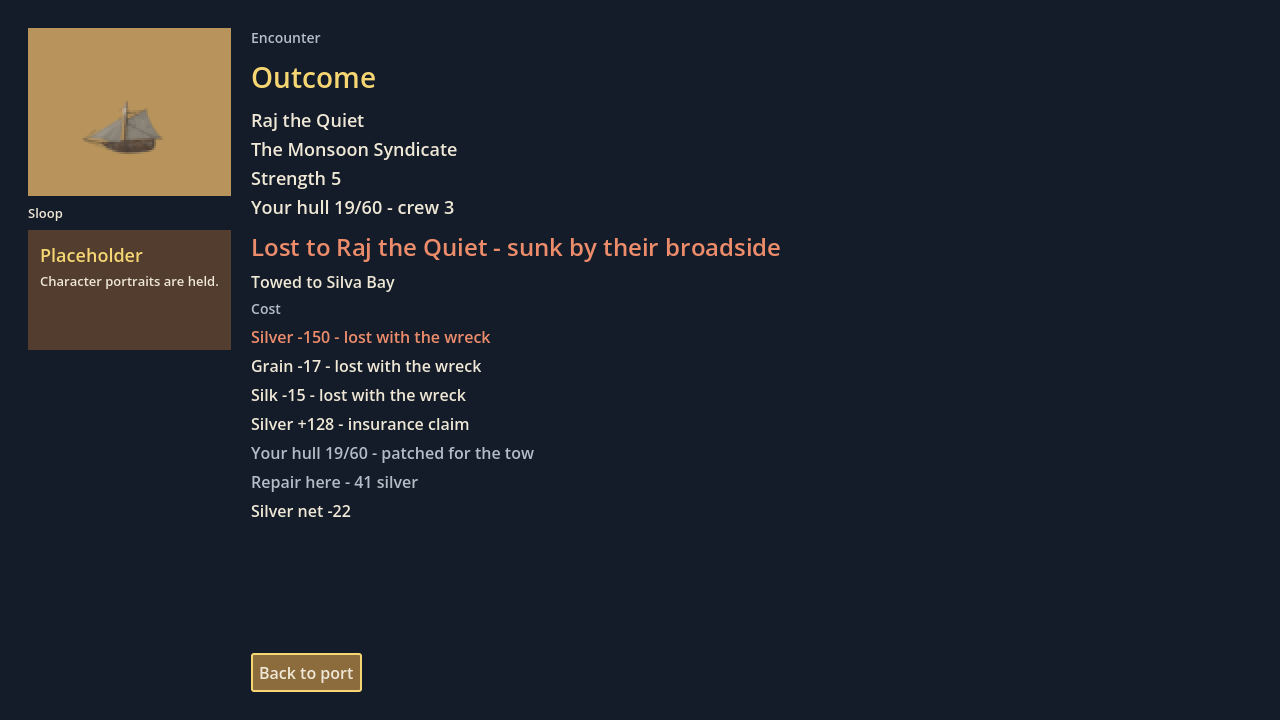
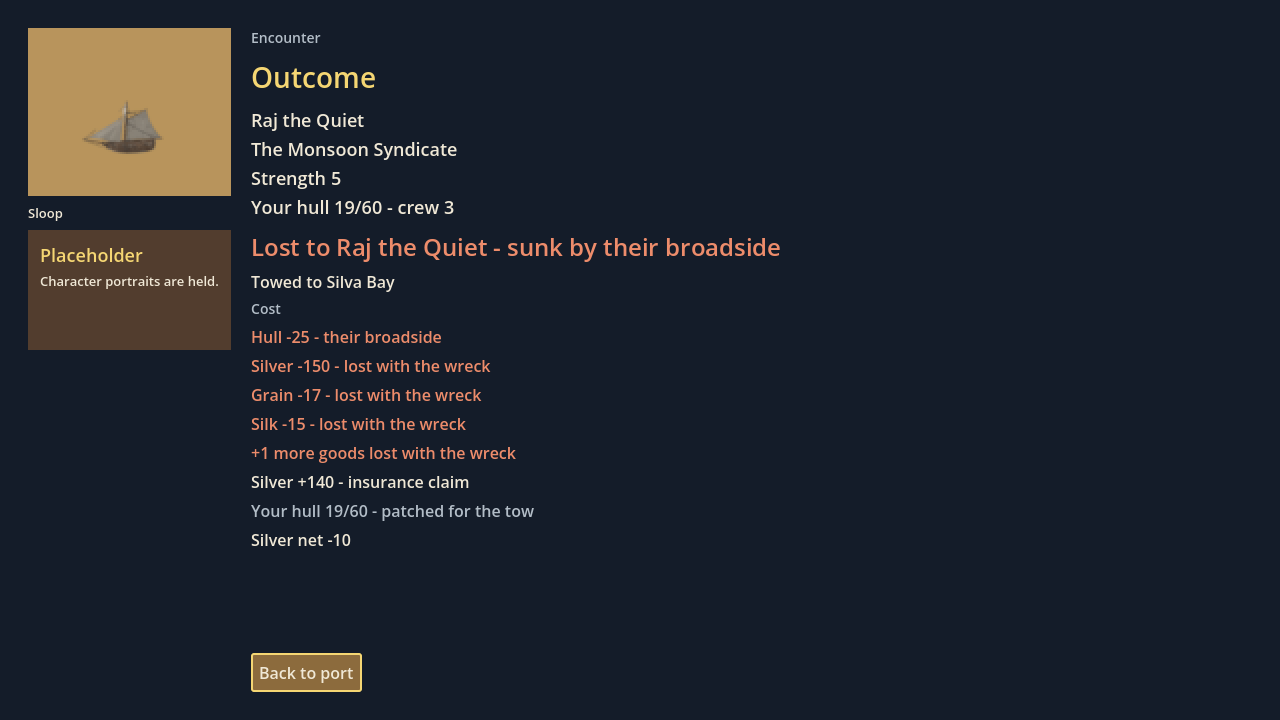
Polish: towed hull shows the fight's damage, full wreck receipt, banked on its own line
A towed ship's Hull row is the damage the fight dealt, capped at the hull it had before the fight, instead of the delta read after the tow patch. Every row lost with the wreck uses the due colour. The full-receipt sinking now carries three goods (two rows and a more row) from hull 25 on seed 6. The chart status line keeps its one-line form and banked silver shows as its own Banked line under it. Frames re-shot: encounter-recap-sunk, encounter-recap-sunk-full, chart-status-banked.

Changed region(s): [[0.1875, 0.4583, 0.4062, 0.7639]]

diff --git a/crates/portlight-godot/src/game.rs b/crates/portlight-godot/src/game.rs
@@ -2605,7 +2605,9 @@ impl PortlightGame {
                 return self.fail_harbour(format!("Harbour smoke: log row missing: {row}"));
             }
         }
-        if !self.status_text().contains(" - banked 400") {
+        if !self.status_text().contains("   Stores ")
+            || !self.status_text().contains("\nBanked 400\n")
+        {
             return self.fail_harbour("Harbour smoke: status line has no banked term.");
         }
         let text = self.harbour_body_text();
@@ -2643,13 +2645,13 @@ impl PortlightGame {
         if !self.check_fields_keep_acted_amount() {
             return;
         }
-        // Bank 100 more so the status strip frame reads banked 400 again
+        // Bank 100 more so the status strip frame reads Banked 400 again
         // after the letter drew 100.
         self.set_bank_field("100");
         self.perform(Action::HarbourBankDeposit);
         self.perform(Action::HarbourConfirm);
         self.close_harbour();
-        if !self.status_text().contains(" silver - banked 400") {
+        if !self.status_text().contains("\nBanked 400\n") {
             let status = self.status_text();
             return self.fail_harbour(format!("Harbour smoke: status strip {status:?}"));
         }
@@ -11394,14 +11396,14 @@ impl PortlightGame {
         }
     }
 
-    /// The scripted voyage, reloaded from its own save with the flagship's
-    /// hull at `hull` (smoke only: the public save path, no sim hook).
     fn sunk_fail(&mut self, line: &str) {
         self.smoke_ok = false;
         godot_print!("{line}");
         self.push_log(line.to_string());
     }
 
+    /// The scripted voyage, reloaded from its own save with the flagship's
+    /// hull at `hull` (smoke only: the public save path, no sim hook).
     fn scripted_voyage_at_hull(&mut self, seed: i128, hull: i64) -> Option<Session> {
         let mut session = Session::new(SCRIPTED_NAME, SCRIPTED_CAPTAIN_TYPE, seed, None).ok()?;
         scripted_depart(&mut session).ok()?;
@@ -11580,8 +11582,7 @@ impl PortlightGame {
     }
 
     /// Full-receipt sinking: a merchant sloop at sea under a cargo policy,
-    /// 500 silver and two goods aboard, sunk by broadside. From hull 1 the
-    /// tow patch raises the hull, so the card has no Hull loss row.
+    /// 500 silver and three goods aboard, sunk by broadside from hull 25. The Hull row is the fight's damage, not the tow patch.
     fn run_sunk_full_to_card(&mut self) -> bool {
         let Some(session) = sunk_full_stage_session() else {
             self.sunk_fail("Sunk smoke: could not stage the full-receipt voyage.");
@@ -11641,11 +11642,35 @@ impl PortlightGame {
             at(&|r| r.starts_with("Silver net ")),
         ];
         let mut problems = Vec::new();
+        godot_print!("encounter-sunk full rows {rows:?}");
         if !(headline.starts_with("Lost to ") && headline.ends_with(" - sunk by their broadside")) {
             problems.push(format!("headline {headline:?}"));
         }
         if wreck_goods.len() != 2 {
             problems.push(format!("wreck goods rows {wreck_goods:?}"));
+        }
+        // The third good folds into the more row.
+        if !rows
+            .iter()
+            .any(|row| row == "+1 more goods lost with the wreck")
+        {
+            problems.push("no +1 more goods row".to_string());
+        }
+        // The hull row, right after Cost, is the fight's damage, not the
+        // patched hull. The 9-row cap drops the repair row.
+        let cost = rows.iter().position(|row| row == "Cost");
+        let hull = rows
+            .iter()
+            .position(|row| row.starts_with("Hull -") && row.ends_with(" - their broadside"));
+        let hull_text = hull.map(|at| rows[at].as_str());
+        if hull.is_none()
+            || hull != cost.map(|at| at + 1)
+            || hull_text != Some("Hull -25 - their broadside")
+        {
+            problems.push("no Hull row from their broadside after Cost".to_string());
+        }
+        if rows.iter().any(|row| row.starts_with("Repair here")) {
+            problems.push("a Repair here row is drawn".to_string());
         }
         let found: Vec<usize> = order.iter().flatten().copied().collect();
         if found.len() != order.len() || found.windows(2).any(|pair| pair[0] >= pair[1]) {
@@ -12935,26 +12960,25 @@ fn hunt_shot_dir(shot: Option<&str>) -> String {
 /// `"ship": {`). Smoke only.
 /// Full-receipt sinking stage, through the public save path: a merchant
 /// sloop out of Porto Novo for Silva Bay under a cargo_standard policy, with
-/// 500 silver, grain 23 and silk 20 (two goods, so the card fits the recap cap) aboard and hull 1.
-/// Seed 3: the pirate's first shot is a broadside, so the card carries no
-/// crew row and stays inside the recap cap.
-const SUNK_FULL_SEED: i128 = 3;
+/// 500 silver, grain 23, silk 20 and spice 4 aboard (two goods rows and a
+/// more row) and hull 25.
+/// Seed 6: from hull 25 every hit is a broadside, so the card carries one
+/// Hull row and no crew row and stays inside the recap cap.
+const SUNK_FULL_SEED: i128 = 6;
 
 fn sunk_full_stage_session() -> Option<Session> {
-    let mut session = Session::new(
-        SCRIPTED_NAME,
-        "merchant",
-        SUNK_FULL_SEED,
-        Some("porto_novo"),
-    )
-    .ok()?;
+    sunk_full_stage_session_with(SUNK_FULL_SEED)
+}
+
+fn sunk_full_stage_session_with(seed: i128) -> Option<Session> {
+    let mut session = Session::new(SCRIPTED_NAME, "merchant", seed, Some("porto_novo")).ok()?;
     session.buy_insurance("cargo_standard", "", "", "").ok()?;
     session.depart("silva_bay").ok()?;
     let dir = std::env::temp_dir().join(format!("portlight-sunk-full-{}", std::process::id()));
     let path = session.save(&dir, "sunk_full").ok()?;
     let text = std::fs::read_to_string(&path).ok()?;
     let text = with_captain_silver(&text, 500)?;
-    let cargo = [("grain", 23), ("silk", 20)]
+    let cargo = [("grain", 23), ("silk", 20), ("spice", 4)]
         .iter()
         .map(|(good, qty)| {
             format!(
@@ -12965,7 +12989,7 @@ fn sunk_full_stage_session() -> Option<Session> {
         .collect::<Vec<_>>()
         .join(", ");
     let text = with_captain_cargo(&text, &format!("[{cargo}]"))?;
-    let text = with_flagship_hull(&text, 1)?;
+    let text = with_flagship_hull(&text, 25)?;
     // Past halfway, so the tow ends at Silva Bay itself: no not-reached row,
     // and the card stays inside the recap cap.
     let text = with_voyage_progress(&text, 12)?;
@@ -14885,9 +14909,16 @@ mod sunk_full_stage_tests {
             .iter()
             .map(|item| (item.good_id.clone(), item.quantity))
             .collect();
-        assert_eq!(held, [("grain".to_string(), 23), ("silk".to_string(), 20)]);
+        assert_eq!(
+            held,
+            [
+                ("grain".to_string(), 23),
+                ("silk".to_string(), 20),
+                ("spice".to_string(), 4)
+            ]
+        );
         let ship = world.captain.ship.as_ref().unwrap();
-        assert_eq!((ship.hull, ship.hull_max), (1, 60));
+        assert_eq!((ship.hull, ship.hull_max), (25, 60));
         assert_eq!(world.voyage.progress, 12);
         assert!(session
             .infrastructure()

diff --git a/crates/portlight-godot/src/recap.rs b/crates/portlight-godot/src/recap.rs
@@ -570,7 +570,15 @@ pub(crate) fn combat_recap(facts: &CombatFacts) -> Option<Recap> {
     // Cost: Hull, Crew, Silver, Cargo, Injury. On a win, Silver and Cargo
     // show only when the fight itself took some, with no cause: the win's
     // silver is the delta less the purse and loot silver (shown under Earned).
-    let [silver, crew, hull, cargo] = facts.deltas;
+    let [silver, crew, mut hull, cargo] = facts.deltas;
+    // The tow patches the hull before the recap reads it, so a towed ship's
+    // hull loss is what the fight did to it: the causes' sum, at most the
+    // hull it had before the fight (after the patch less the delta).
+    if !facts.towed_to.is_empty() {
+        let dealt = facts.hull_by_cause.iter().sum::<i64>();
+        let before = facts.hull_after - hull;
+        hull = -(if before > 0 { dealt.min(before) } else { dealt });
+    }
     let silver = if win {
         silver - facts.purse - loot_silver_total
     } else {
@@ -630,7 +638,7 @@ pub(crate) fn combat_recap(facts: &CombatFacts) -> Option<Recap> {
                 RecapSection::Cost,
                 format!("{} -{qty}", good_display_name(id)),
                 Some(WRECK_CAUSE),
-                RecapTone::Cream,
+                RecapTone::Due,
             ));
         }
         if goods.len() > PASSTHROUGH_CAP {
@@ -640,7 +648,7 @@ pub(crate) fn combat_recap(facts: &CombatFacts) -> Option<Recap> {
                     "+{} more goods {WRECK_CAUSE}",
                     goods.len() - PASSTHROUGH_CAP
                 ),
-                RecapTone::Cream,
+                RecapTone::Due,
             ));
         }
         if facts.claims_paid > 0 {
@@ -1884,17 +1892,20 @@ mod tests {
             vec![
                 format!("Towed to {port}").as_str(),
                 "Cost",
-                "Hull -30 - their broadside",
+                // Towed: the fight's own damage, not the patched delta, at
+                // most the 36 the ship had (6 after the patch, delta -30).
+                "Hull -36 - their broadside",
                 "Your hull 6/60 - patched for the tow"
             ]
         );
         let last = recap.rows.last().unwrap();
         assert_eq!(last.tone, RecapTone::Muted);
-        // Mixed with an overkill last broadside: the clamp lands on that cause.
+        // Mixed: a towed ship's loss is the sum of the causes, so each
+        // cause keeps its own amount.
         facts.hull_by_cause = [30, 6, 0];
         assert_eq!(
             texts(&combat(&facts))[2..4],
-            ["Hull -24 - their broadside", "Hull -6 - their grapeshot"]
+            ["Hull -30 - their broadside", "Hull -6 - their grapeshot"]
         );
     }
 
@@ -1917,6 +1928,32 @@ mod tests {
             hull_after: 6,
             ..Default::default()
         }
+    }
+
+    #[test]
+    fn a_towed_ship_shows_the_fight_hull_loss_not_the_patch() {
+        // The tow patched the hull, so the delta reads +18; the fight did 30.
+        let mut facts = sunk();
+        facts.deltas[2] = 18;
+        facts.hull_after = 48;
+        facts.hull_by_cause = [30, 0, 0];
+        let recap = combat(&facts);
+        let rows = texts(&recap);
+        assert!(rows.contains(&"Hull -30 - their broadside"), "{rows:?}");
+    }
+
+    #[test]
+    fn every_wreck_row_is_due() {
+        let mut facts = sunk();
+        facts.wreck_cargo.push(("rum".into(), 1));
+        let recap = combat(&facts);
+        let wreck: Vec<&RecapRow> = recap
+            .rows
+            .iter()
+            .filter(|r| r.text.contains(WRECK_CAUSE))
+            .collect();
+        assert!(wreck.len() >= 4, "{:?}", texts(&recap));
+        assert!(wreck.iter().all(|r| r.tone == RecapTone::Due));
     }
 
     #[test]

diff --git a/crates/portlight-godot/src/logic.rs b/crates/portlight-godot/src/logic.rs
@@ -80,7 +80,9 @@ pub(crate) fn empty_lane_note(voyage_present: bool) -> &'static str {
 }
 
 /// First line of the chart status block. The resource is called Stores, as
-/// on the Stores button, with the count last.
+/// on the Stores button, with the count last. Banked silver, when there is
+/// any, is its own `Banked N` line directly under it, so the first line
+/// never wraps.
 pub(crate) fn status_header(
     day: i64,
     season: &str,
@@ -89,13 +91,13 @@ pub(crate) fn status_header(
     banked: i64,
     stores: i64,
 ) -> String {
-    // The banked term is left out at 0.
-    let banked = if banked > 0 {
-        format!(" - banked {banked}")
+    let line = format!("Day {day}   {season}   {captain}   {silver} silver   Stores {stores}");
+    // The banked line is left out at 0.
+    if banked > 0 {
+        format!("{line}\nBanked {banked}")
     } else {
-        String::new()
-    };
-    format!("Day {day}   {season}   {captain}   {silver} silver{banked}   Stores {stores}")
+        line
+    }
 }
 
 /// The docked price line under the port row.
@@ -4338,7 +4340,7 @@ mod tests {
     fn status_line_banked_term_omitted_at_zero() {
         assert_eq!(
             status_header(2, "spring", "Ada", 1200, 5000, 9),
-            "Day 2   spring   Ada   1200 silver - banked 5000   Stores 9"
+            "Day 2   spring   Ada   1200 silver   Stores 9\nBanked 5000"
         );
         let line = status_header(2, "spring", "Ada", 1200, 0, 9);
         assert!(!line.contains("banked"));
